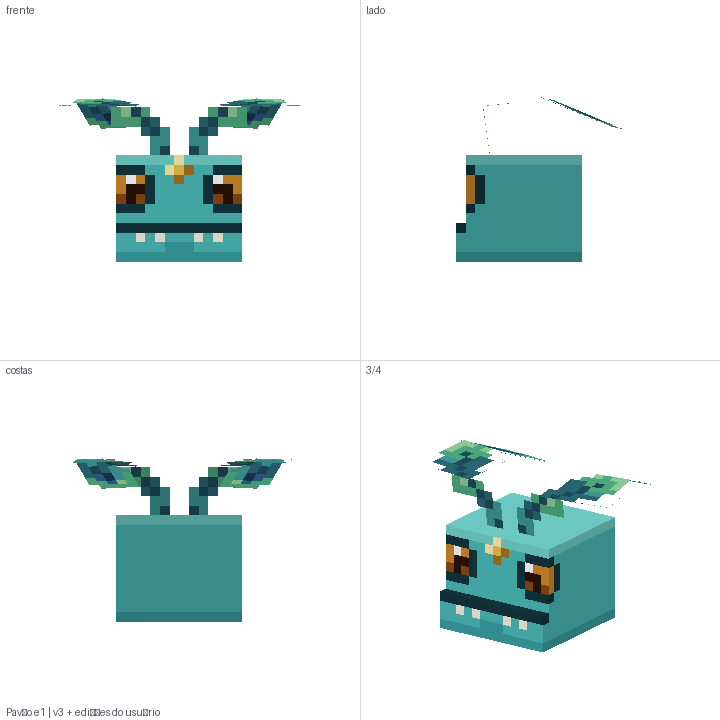
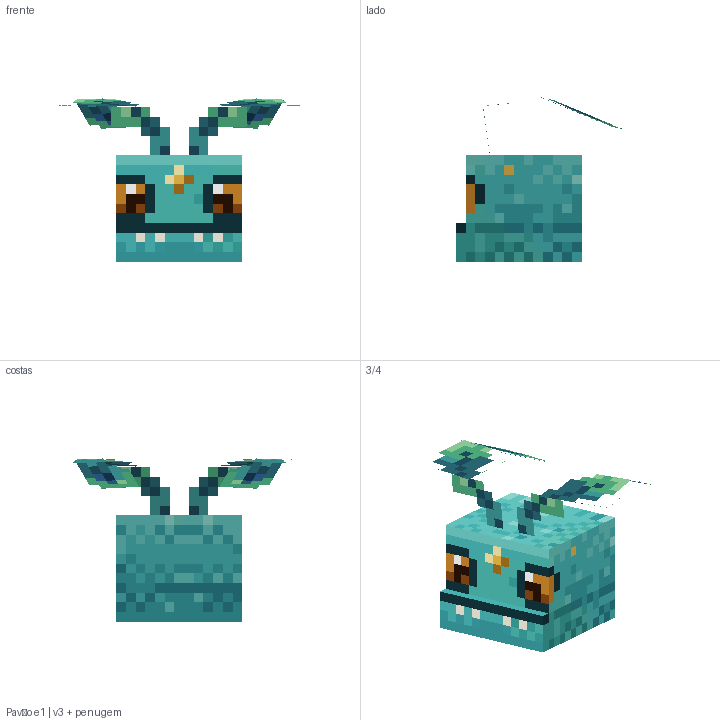
Pavão v3: penugem procedural no corpo, mantendo o rosto e a boca do usuário
Tufos em grade irregular, degradê de volume pontilhado e manchas suaves de
tom; frente só com fundo suave. Lábio pintado à mão e penas conferidos
pixel a pixel sem alteração.

diff --git a/modelos/criatura-pavao/revisao-v3-koromon.py b/modelos/criatura-pavao/revisao-v3-koromon.py
@@ -214,6 +214,143 @@ def pintar(modelo: bbmodelo.Modelo, res: int) -> np.ndarray:
     return tex
 
 
+# ---------- penugem procedural (laterais, costas, topo e base) ----------
+# Rampas de valor em pixel art: uma puxada para o azul e outra para o verde; cada pena escolhe uma.
+RAMPA_AZUL = ["#163f4c", "#1f6271", "#2b8590", "#3aa4a8", "#4bbbba", "#68cdc8", "#93e0d6"]
+RAMPA_VERDE = ["#174746", "#20696a", "#2d8c8a", "#3ca7a2", "#4fbcb3", "#6dcdc2", "#98dfd2"]  # só um pouco mais verde
+RAMPAS = [[np.frombuffer(bytes.fromhex(c[1:]), np.uint8) for c in r] for r in (RAMPA_AZUL, RAMPA_VERDE)]
+BASE = 4  # índice da cor média (o "main" do conceito)
+
+
+def _plano_da_face(face: str, x: float, y: float, z: float):
+    """(a, b): coordenadas na face, com b crescendo para baixo (as penas se sobrepõem de cima para baixo)."""
+    if face in ("east", "west"):
+        return (z if face == "west" else -z), -y
+    if face == "south":
+        return x, -y
+    if face == "north":
+        return -x, -y
+    return x, z  # up/down: as penas apontam para trás
+
+
+def _ruido(a: float, b: float, escala: float, semente: float) -> float:
+    """Ruído de valor suave (0..1): manchas grandes e irregulares."""
+    fa, fb = a / escala, b / escala
+    ia, ib = math.floor(fa), math.floor(fb)
+    ta, tb = fa - ia, fb - ib
+    ta, tb = ta * ta * (3 - 2 * ta), tb * tb * (3 - 2 * tb)
+    c = [[_h(ia + i, ib + j, semente) for j in (0, 1)] for i in (0, 1)]
+    return (c[0][0] * (1 - ta) + c[1][0] * ta) * (1 - tb) + (c[0][1] * (1 - ta) + c[1][1] * ta) * tb
+
+
+# tufo de pena (b cresce para baixo): brilho em cima, miolo, "v" de sombra embaixo
+TUFO = {(0, -1): +1, (-1, 0): -1, (1, 0): -1, (0, 1): -1}
+BAYER = [[0.0, 0.5], [0.75, 0.25]]
+
+
+def penugem(cubo: str, face: str, x: float, y: float, z: float, suave: bool = False) -> np.ndarray:
+    """Penugem em pixel art sem padrão fixo: tufos espalhados em grade irregular, degradê de volume com
+    pontilhado e manchas suaves de cor (um pouco mais verdes ou mais claras) em pontos aleatórios.
+
+    `suave`: só o degradê e metade dos tufos, um tom de contraste, para o fundo do rosto.
+    """
+    a, b = _plano_da_face(face, x, y, z)
+    ia, ib = math.floor(a), math.floor(b)
+    k = ord(face[0])
+    # volume: claro em cima, escuro embaixo, sombra sob o volume de cima, costas mais escuras
+    valor = 0.0
+    if face == "up":
+        valor = 1.0
+    elif face == "down":
+        valor = -2.0
+    else:
+        valor = (y - 5.5) / 6.0  # -0,9 embaixo .. +0,9 no alto
+        if cubo == "body_lower" and y > 3:
+            valor -= 0.8
+        if face in ("east", "west") and z > 4:
+            valor -= 0.35
+    valor += (_ruido(a, b, 5, k) - 0.5) * 1.1  # manchas leves de tom
+    rampa = RAMPAS[1 if _ruido(a, b, 6, k + 50) > 0.68 else 0]  # áreas um pouco mais verdes
+    if suave:
+        valor *= 0.4
+    nivel = BASE + math.floor(valor + BAYER[ib % 2][ia % 2])  # pontilhado entre os tons
+    # tufos: no máximo um por célula 3×3, posição sorteada, ~60% das células
+    for ca in range(math.floor((ia - 1) / 3), math.floor((ia + 1) / 3) + 1):
+        for cb in range(math.floor((ib - 1) / 3), math.floor((ib + 1) / 3) + 1):
+            if _h(ca, cb, k, 1.7) > (0.3 if suave else 0.6):
+                continue
+            sa, sb = ca * 3 + math.floor(_h(ca, cb, k, 2.9) * 3), cb * 3 + math.floor(_h(ca, cb, k, 4.3) * 3)
+            d = TUFO.get((ia - sa, ib - sb))
+            if d is not None:
+                if suave and d > 0:
+                    continue
+                nivel += d
+                if d > 0 and face != "down" and y > 5 and _h(ca, cb, k, 8.8) < 0.1 and not suave:
+                    return np.frombuffer(bytes.fromhex("e9be55"), np.uint8)  # pintinha dourada no brilho de alguns tufos
+                break
+        else:
+            continue
+        break
+    lim = (BASE - 1, BASE) if suave else (0, len(rampa) - 1)
+    return rampa[int(np.clip(nivel, *lim))]
+
+
+RAMPA_FRENTE = {tuple(RAMPAS[i][j]) for i in (0, 1) for j in (BASE - 1, BASE)}  # para poder repintar
+
+
+def protegido(cubo: str, face: str, x: float, y: float, z: float) -> bool:
+    """Rosto e boca (já aprovados e retocados à mão pelo usuário) não são repintados."""
+    if face == "north":
+        return True
+    if cubo == "body_lower" and (face == "up" and z < FRENTE_SUP or face in ("east", "west") and z < FRENTE_SUP and y >= 3):
+        return True
+    if cubo == "body_upper" and face in ("east", "west") and _olho(x, y, z - FRENTE_SUP):
+        return True
+    return False
+
+
+def so_penugem():
+    """Pinta a penugem procedural no corpo, mantendo rosto, boca e penas como estão no .bbmodel."""
+    import datetime
+    hist = DEST / "historico"
+    hist.mkdir(exist_ok=True)
+    carimbo = datetime.datetime.now().strftime("%Y%m%d-%H%M")
+    shutil.copy2(FILE, hist / f"{carimbo}-antes-da-penugem.bbmodel")
+    modelo = bbmodelo.ler(FILE)
+    res = int(modelo.bruto["resolution"]["width"])
+    tex = np.array(modelo.textura.convert("RGBA"))
+    ident = np.eye(4)
+    pintados = 0
+    fundo = {tuple(P["main"]), tuple(P["light"])}  # no rosto, só o fundo liso recebe a penugem suave
+    for c in modelo.cubos:
+        if not c.nome.startswith("body"):
+            continue
+        for face in ("north", "south", "east", "west", "up", "down"):
+            r = texturizar.texels_da_face(c, face, ident)
+            if r is None:
+                continue
+            for (u, v), (x, y, z) in zip(*r):
+                if not (0 <= u < res and 0 <= v < res):
+                    continue
+                if face == "north":
+                    if tuple(tex[int(v), int(u), :3]) in fundo or tuple(tex[int(v), int(u), :3]) in RAMPA_FRENTE:
+                        tex[int(v), int(u), :3] = penugem(c.nome, face, x, y, z, suave=True)                             if not (c.nome == "body_upper" and y > 10) else P["light"]
+                    continue
+                if not protegido(c.nome, face, x, y, z):
+                    tex[int(v), int(u), :3] = penugem(c.nome, face, x, y, z)
+                    tex[int(v), int(u), 3] = 255
+                    pintados += 1
+    Image.fromarray(tex).save(DEST / "textura.png")
+    Image.fromarray(tex).save(ROOT / "textura.png")
+    nome = modelo.bruto["textures"][0].get("name") or "textura"
+    motor.editar(FILE, [{"op": "update_texture", "target": nome, "source": texturizar._data_url(tex), "width": res,
+                         "height": res, "material": None}])
+    modelo = bbmodelo.ler(FILE)
+    render.folha(modelo, lado_px=360, titulo="Pavão e1 | v3 + penugem").save(DEST / "folha.png")
+    geo = motor.resumo_validacao(motor.validar(FILE.resolve()))
+    print(f"penugem: {pintados} texels pintados; geometria {geo[0]} erros/{geo[1]} avisos")
+
+
 def so_textura():
     """Repinta só o corpo no .bbmodel atual (com as edições à mão do usuário), sem mexer na geometria.
 
@@ -266,6 +403,8 @@ def so_textura():
 
 
 def main():
+    if "--penugem" in sys.argv:
+        return so_penugem()
     if "--so-textura" in sys.argv:
         return so_textura()
     if DEST.exists() and "--refazer" not in sys.argv:

diff --git a/docs/sessoes/2026-10-21-piloto-pavao-v3.md b/docs/sessoes/2026-10-21-piloto-pavao-v3.md
@@ -70,3 +70,24 @@ Ele também exportou `modelos/criatura-pavao/model.animation.json` e `textura.pn
 - A boca no degrau da mandíbula ocupa o topo do degrau, além da frente.
 - Na escala de 1 texel por unidade, ruído aleatório lê como sujeira. Detalhe só onde tem intenção.
 - Proporção: a prancha pedia uma cabeça mais estreita do que a minha medida (o pelo engana a largura). Penas: planos girados resolvem melhor que a tira lateral complementar.
+
+## Terceira rodada: penugem procedural
+
+**Retorno do usuário:** ele mesmo corrigiu a boca a pincel. Foram 13 pixels na faixa do lábio (linha 46 do atlas), e a frente ficou "90%". O resto do corpo estava praticamente cor sólida, com pontos de sombra sem sentido. Ele pediu algo mais natural, sem padrão bem definido, parecendo penas em pixel art, com sombras e cores levemente destoantes onde fizer sentido.
+
+**Feito** (`revisao-v3-koromon.py --penugem`):
+- Laterais, costas, topo e base receberam a penugem. Tufos espalhados numa grade irregular, no máximo um por célula 3×3 e em cerca de 60% das células. Cada tufo tem brilho em cima e um "v" de sombra embaixo.
+- Por baixo dos tufos:
+  - um degradê de volume pontilhado (Bayer 2×2): claro em cima e escuro embaixo, com sombra sob o volume de cima e costas mais escuras;
+  - manchas de tom e áreas um pouco mais verdes, feitas com ruído suave.
+- Pintinhas douradas aparecem só no brilho de alguns tufos.
+- Na frente, só o fundo liso recebeu uma versão suave, de um tom.
+- Ficaram intactos, conferido pixel a pixel contra o backup: olhos, gema, boca, dentes, a faixa do lábio pintada pelo usuário e todas as penas.
+
+**Tentativas descartadas:**
+- escamas 3×2 e 4×3 em fileiras: liam como tijolo ou faixas, padrão rígido demais.
+
+**Lições para o método:**
+- A 1 texel por unidade, a "vida" vem da combinação: degradê de volume pontilhado + ruído de baixa frequência + marcas pequenas espalhadas sem grade visível.
+- Fileiras regulares viram tijolo.
+- Proteger o que o usuário pintou: repintar só por face e por região, e conferir os pixels dele depois.
